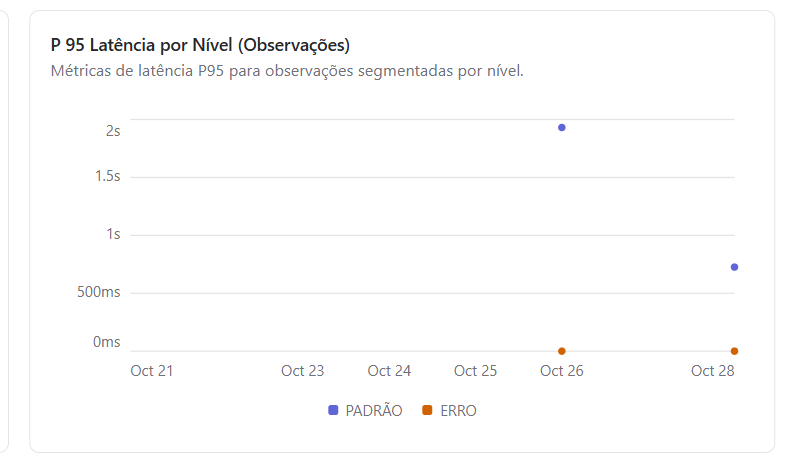
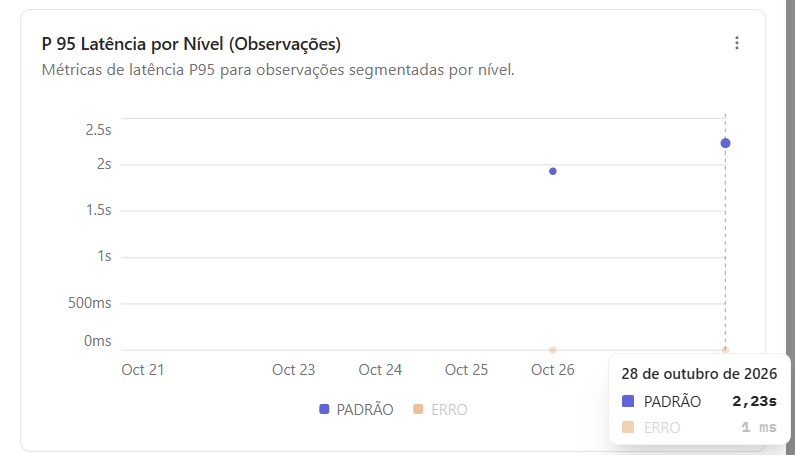
docs: atualiza README com as métricas

diff --git a/README.md b/README.md
@@ -170,15 +170,26 @@ Implementamos monitoramento crítico de disponibilidade da engine de IA:
 - **Público-alvo:** Equipe Técnica / Desenvolvedores de Plantão (`@oncall`).
 - **Canal:** **Microsoft Teams** (Canal da Equipe). O disparo é feito instantaneamente via um Webhook que envia um *MessageCard* (Cartão Adaptável) nativo, forçando uma notificação push na tela da equipe.
 
+### 🔔 Alertas de Observabilidade Proativa (Langfuse)
+Além do alerta crítico de aplicação (P1), o sistema utiliza a engine nativa de alertas do Langfuse para monitorar a degradação contínua de performance, custo e qualidade. Os alertas configurados disparam notificações via Webhook para a equipe de SRE monitorar tendências antes que afetem severamente os usuários:
+
+- **Latência Alta (UX Degradada):** 
+  - **Regra:** Dispara se a duração da requisição (Trace Duration) for maior que `4.0s`.
+  - **Ação:** Notifica a equipe sobre possível lentidão na API da Anthropic ou gargalos de rede.
+- **Custo Anormal / Consumo Elevado:** 
+  - **Regra:** Dispara se o custo da análise (Cost) ultrapassar `$ 0.05` por execução.
+  - **Ação:** Previne gastos imprevistos com PDFs maliciosamente longos e protege o orçamento (FinOps).
+
 📊 Dashboard Curado em Produção
 O painel abaixo comprova a instrumentação online com capturas reais das triagens realizadas.
 🔗 **Link do Dashboard:** [Acessar Painel Langfuse](https://us.cloud.langfuse.com/project/cmvokcfwy025gad0jzimbl0wh/traces)
 
 
-![Print do Dashboard - Métricas Principais](docs/dashboard_metricas.png)
-![Print do Dashboard - Latência e Custo](docs/dashboard_latencia.png)
+![Print do Dashboard - Frequência e Custos](docs/dashboard_metricas.png)
+![Print do Dashboard - Latência](docs/dashboard_latencia.png)
+![Print do Dashboard - Rastreamento](docs/Rastreamento.png)
 
-**Evidências do Langfuse:** Os painéis demonstram a saúde da aplicação com 24 observações capturadas, p95 de latência mantendo-se na margem de 2.32s, e o sucesso do cache (latência zero) garantindo o funcionamento esperado, além da captura e alerta imediato de erros 500 gerados por falhas de integração.
+**Evidências do Langfuse:** **Evidências do Langfuse:** Os painéis demonstram a saúde da aplicação com 62 observações capturadas, com p95 em 28/10 de 2,23 com picos de latência mantendo-se na margem de 2.99s para requisições novas (Cache Miss), e o sucesso do cache operando com latência 0.00s, garantindo o funcionamento esperado. O painel também comprova a captura e alerta imediato de falhas (Status: erro), geradas durante os testes de integração e resiliência da API.
 
 ## 🛠 Troubleshooting (Resolução de Problemas Comuns)
 - **Erro de CORS no Frontend (Next.js vs FastAPI):** Se a interface web falhar ao conectar com o backend, verifique se a variável `FRONTEND_ORIGINS` no painel do Render contém a URL pública e exata do frontend, **sem a barra (/) no final** do domínio.
